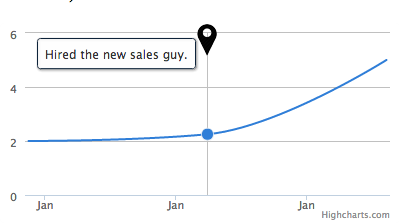
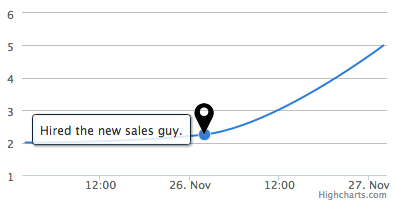
Match event markers to the highest point across all lines

diff --git a/jquery.epochchart.js b/jquery.epochchart.js
@@ -1,7 +1,39 @@
 // Generated by CoffeeScript 1.3.3
 
 (function($) {
-  var defaults;
+  var defaults, tallestPoint;
+  tallestPoint = function(lines, x) {
+    var computedValues, ret;
+    computedValues = $.map(lines, function(line) {
+      var prevPoint, ret;
+      prevPoint = null;
+      ret = null;
+      $.map(line['data'], function(datum, i) {
+        var slope, xdiff;
+        if (x >= datum['x']) {
+          prevPoint = datum;
+          return;
+        }
+        if (x < datum['x']) {
+          if (prevPoint === null) {
+            ret = datum['y'];
+            return;
+          }
+          xdiff = x - prevPoint['x'];
+          slope = (datum['y'] - prevPoint['y']) / (datum['x'] - prevPoint['x']);
+          ret = prevPoint['y'] + slope * (x - prevPoint['x']);
+        }
+      });
+      return ret;
+    });
+    ret = null;
+    $.each(computedValues, function(i, v) {
+      if ((v != null) && (!(ret != null) || ret < v)) {
+        return ret = v;
+      }
+    });
+    return ret;
+  };
   defaults = {
     marker: 'url(marker.png)'
   };
@@ -80,7 +112,6 @@
     lines = $.map(lines, function(line) {
       var lineData;
       lineData = $.map(line.data, function(data) {
-        console.log(data[0]);
         if (maxY === null || data[1] > maxY) {
           maxY = data[1];
         }
@@ -98,7 +129,7 @@
     markerData = $.map(markers, function(marker) {
       return {
         x: new Date(marker[0]),
-        y: 1.03 * maxY,
+        y: tallestPoint(lines, marker[0]),
         name: marker[1]
       };
     });
